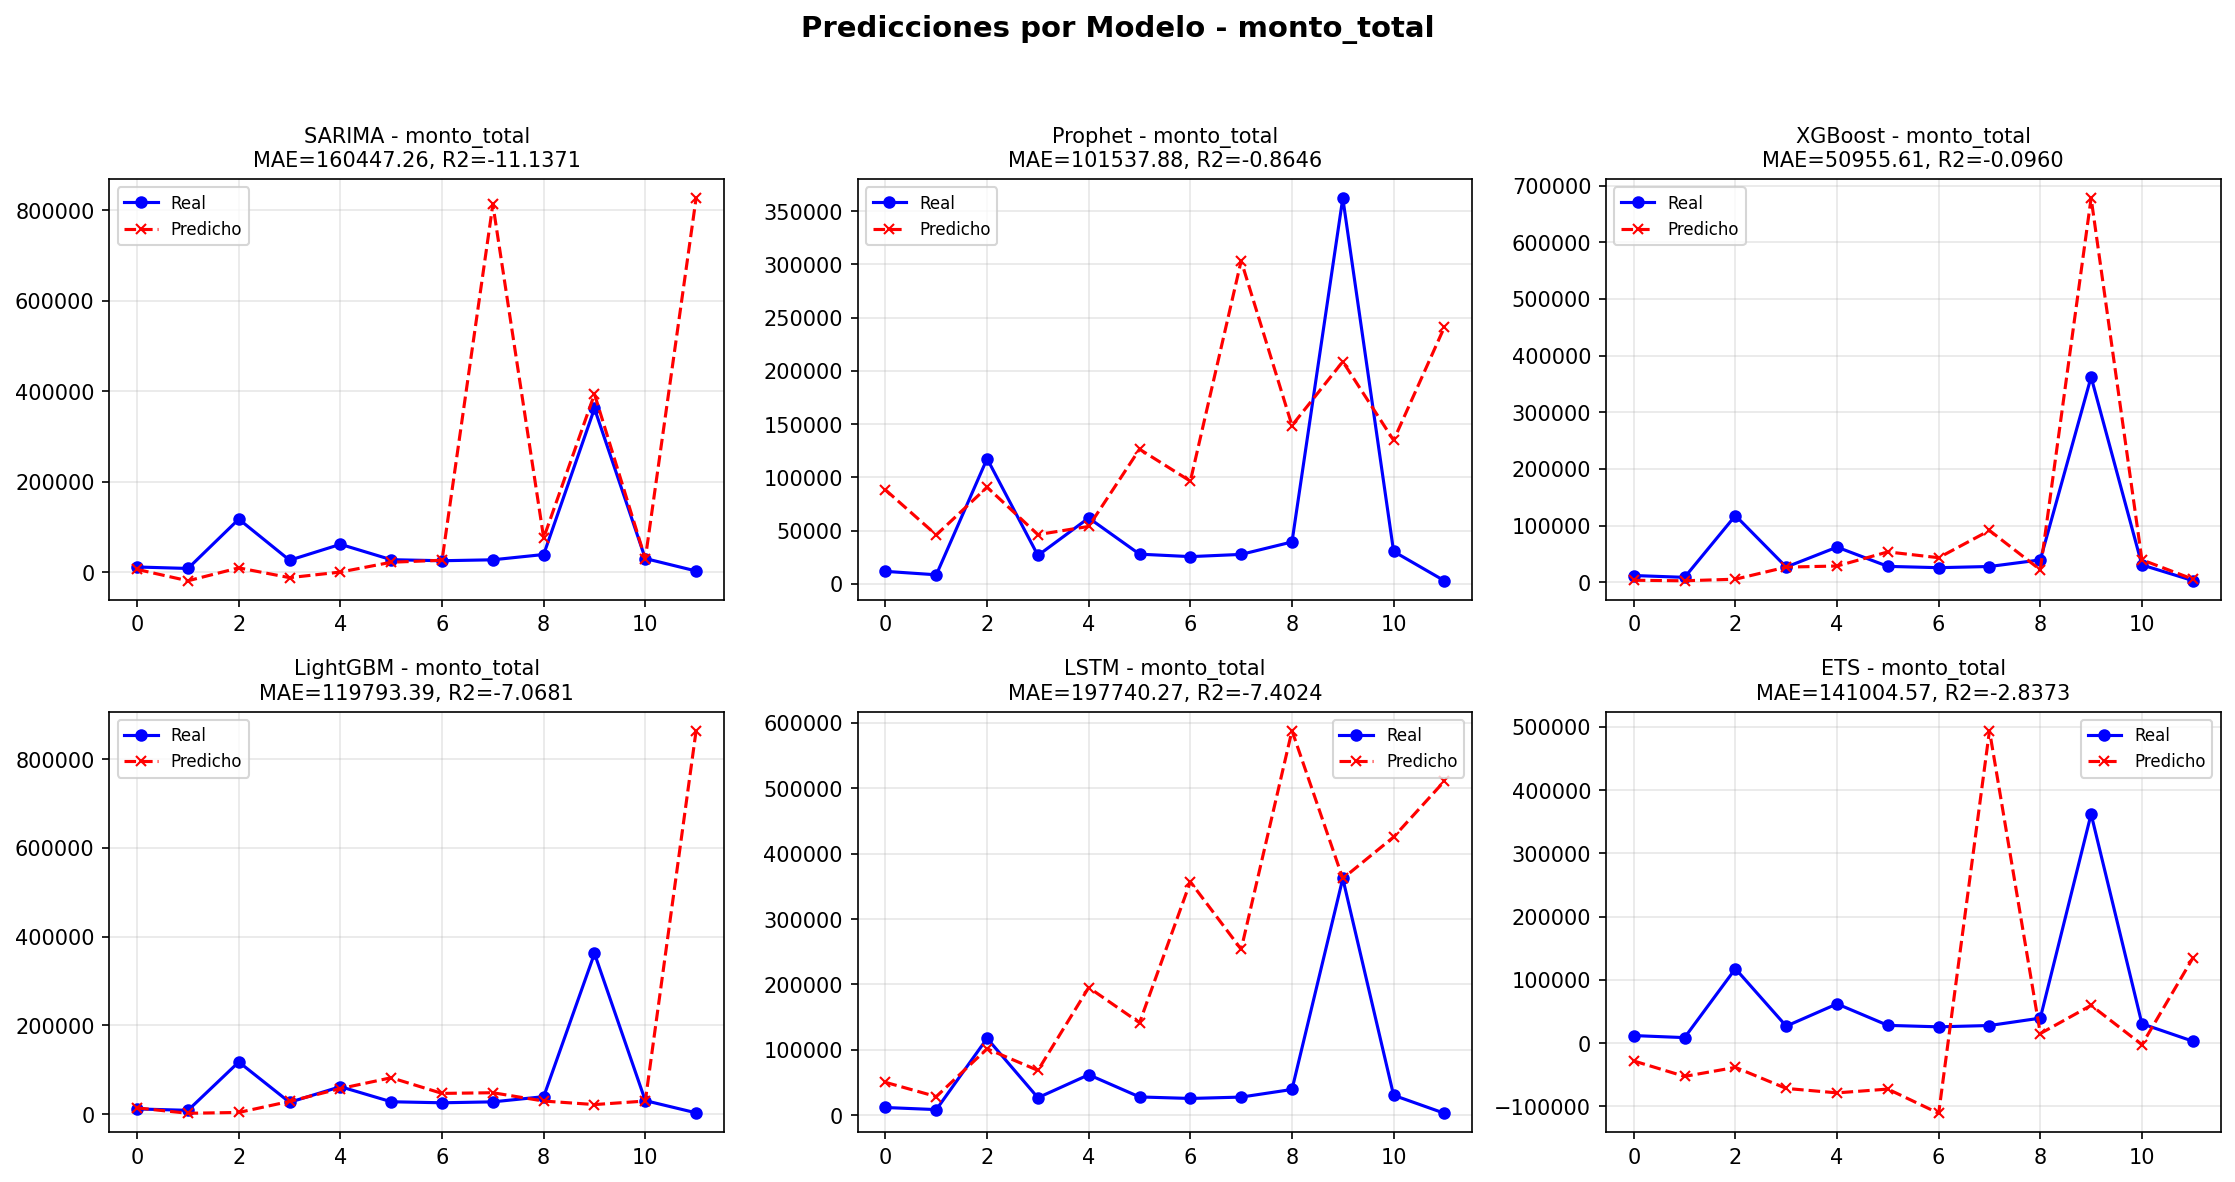
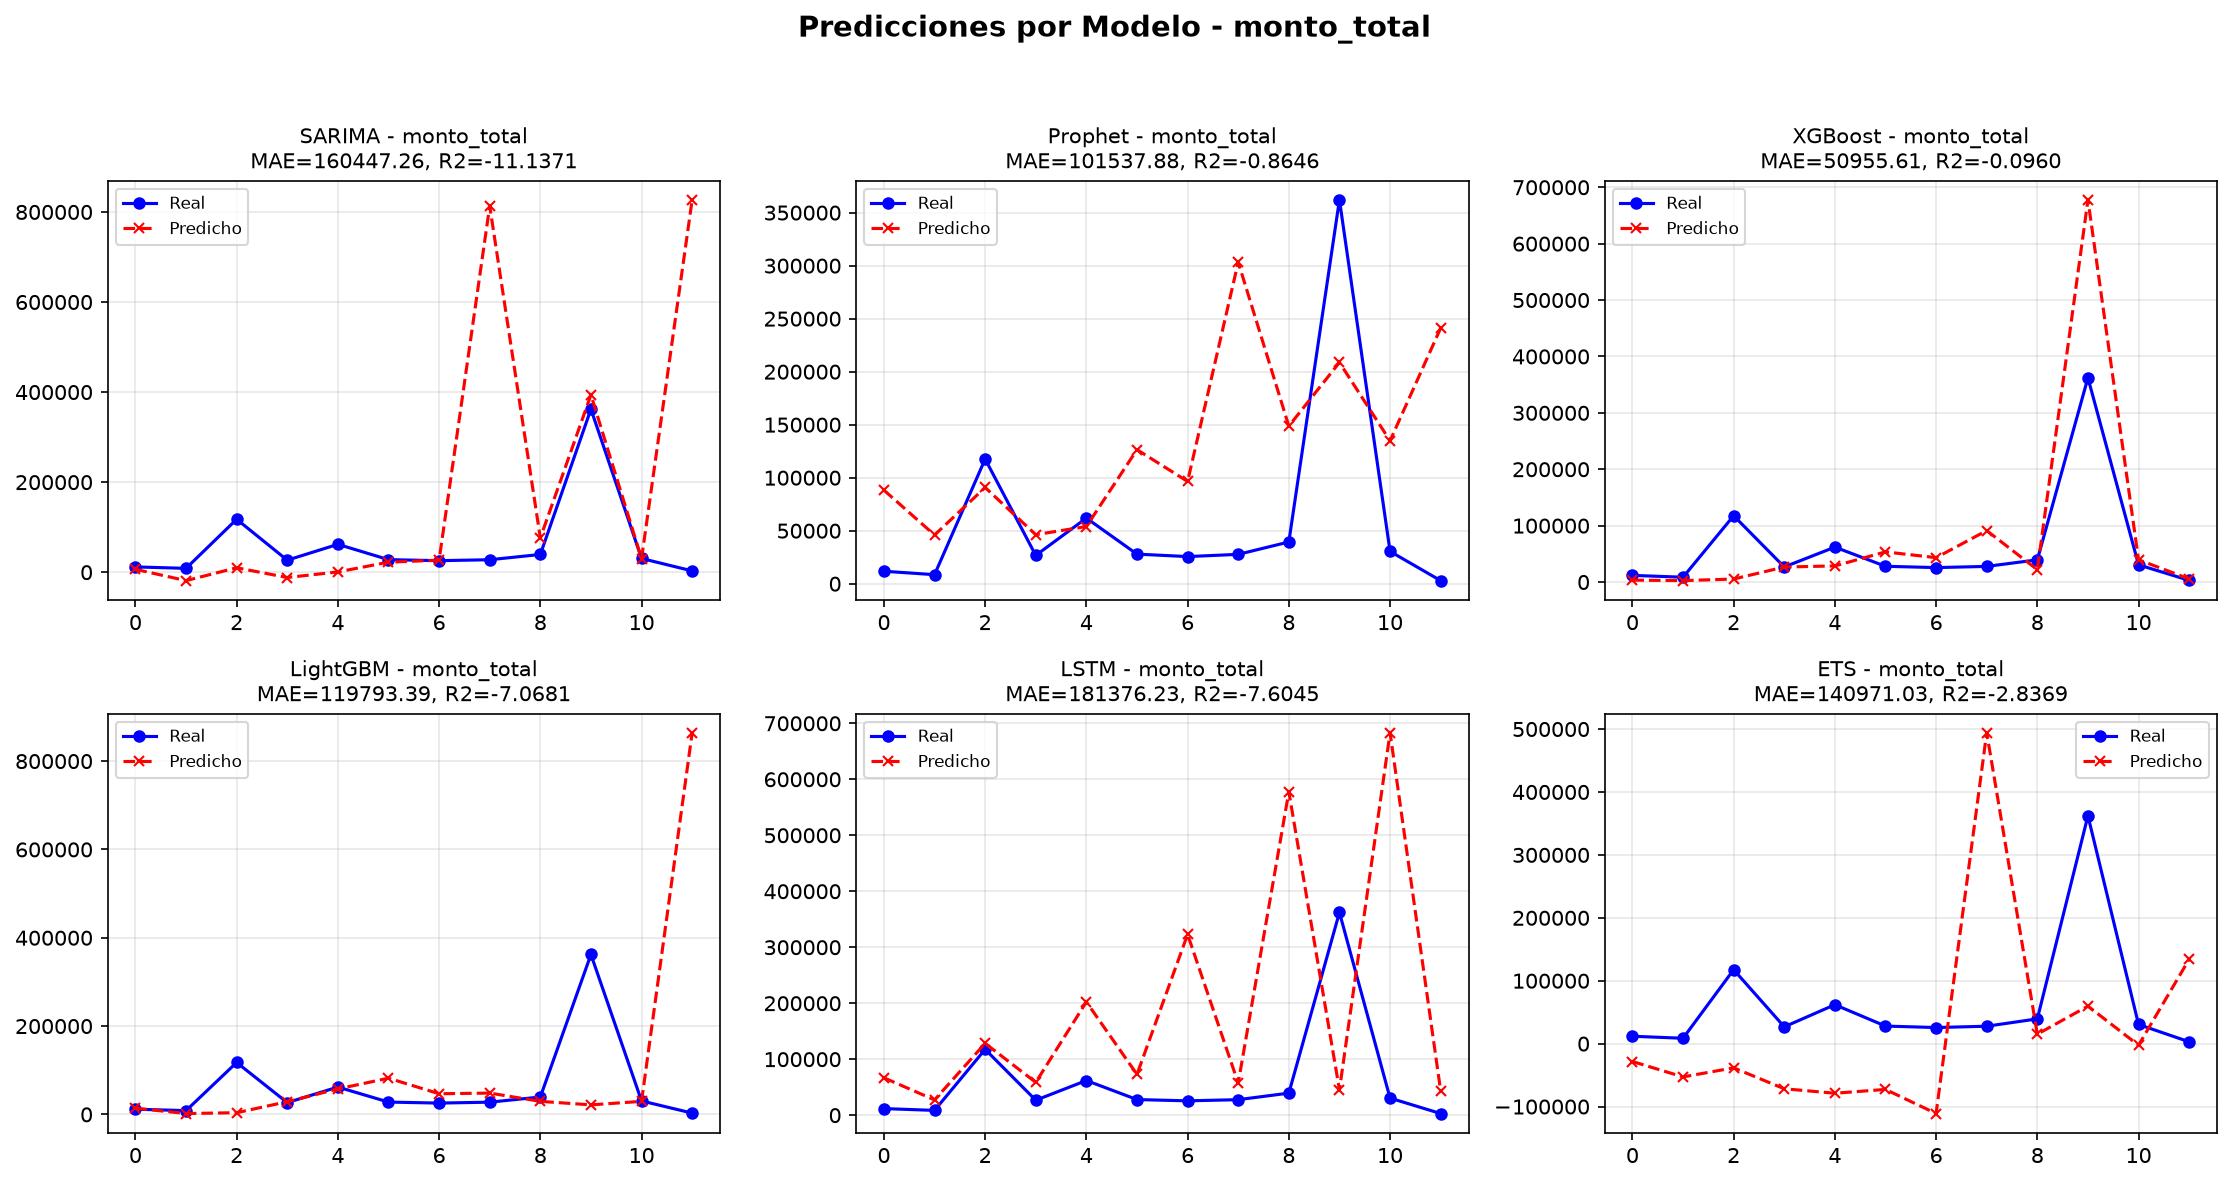
Implementación de servicio de RENIEC (Simulado por limitaciones con DECOLECTA)

diff --git a/src/services/reniec_service.py b/src/services/reniec_service.py
@@ -1,0 +1,47 @@
+import httpx
+import os
+from fastapi import HTTPException
+
+RENIEC_API_URL = "https://api.decolecta.com/v1/reniec/dni"
+RENIEC_TOKEN   = os.getenv("RENIEC_TOKEN")
+
+class ReniecService:
+    @staticmethod
+    async def consultar_dni(dni: str) -> dict:
+        if not dni or not dni.isdigit() or len(dni) != 8:
+            raise HTTPException(status_code=400, detail="DNI inválido — debe tener exactamente 8 dígitos")
+
+        if not RENIEC_TOKEN:
+            raise HTTPException(status_code=503, detail="Token RENIEC no configurado")
+
+        async with httpx.AsyncClient(timeout=10.0) as client:
+            try:
+                response = await client.get(
+                    RENIEC_API_URL,
+                    params={"numero": dni},
+                    headers={
+                        "Authorization": f"Bearer {RENIEC_TOKEN}",
+                        "Accept": "application/json"
+                    }
+                )
+            except httpx.ConnectError:
+                raise HTTPException(status_code=503, detail="No se pudo conectar con el servicio RENIEC")
+
+        if response.status_code == 401:
+            raise HTTPException(status_code=503, detail="Token RENIEC inválido o expirado")
+        if response.status_code == 404:
+            raise HTTPException(status_code=404, detail="DNI no encontrado")
+        if response.status_code == 422:
+            raise HTTPException(status_code=400, detail="DNI inválido según el servicio")
+        if response.status_code != 200:
+            raise HTTPException(status_code=502, detail=f"Error al consultar RENIEC ({response.status_code})")
+
+        data = response.json()
+        print("RESPUESTA DECOLECTA:", data)
+        return {
+                "dni":              data.get("document_number"),
+                "nombres":          data.get("first_name"),
+                "apellido_paterno": data.get("first_last_name"),
+                "apellido_materno": data.get("second_last_name"),
+                "nombre_completo":  data.get("full_name")
+        }

diff --git a/src/routers/reniec_router.py b/src/routers/reniec_router.py
@@ -1,0 +1,9 @@
+from fastapi import APIRouter, Depends
+from src.core.security import decode_token
+from src.services.reniec_service import ReniecService
+
+reniec_router = APIRouter()
+
+@reniec_router.get("/{dni}")
+async def consultar_dni(dni: str, token: dict = Depends(decode_token)):
+    return await ReniecService.consultar_dni(dni)

diff --git a/src/main.py b/src/main.py
@@ -15,6 +15,7 @@ from src.routers.fallecido_router import fallecido_router
 from src.routers.contratante_router import contratante_router
 from src.routers.pasajero_router import pasajero_router
 from src.routers.role_router import role_router
+from src.routers.reniec_router import reniec_router
 
 app = FastAPI(
     title="Inventario Funeraria Aranzabal API",
@@ -47,3 +48,4 @@ app.include_router(servicio_router, prefix="/services", tags=["Servicios"])
 app.include_router(fallecido_router, prefix="/deceased", tags=["Fallecidos"])
 app.include_router(contratante_router, prefix="/contractors", tags=["Contratantes"])
 app.include_router(pasajero_router, prefix="/passengers", tags=["Pasajeros"])
+app.include_router(reniec_router, prefix="/reniec", tags=["RENIEC"])